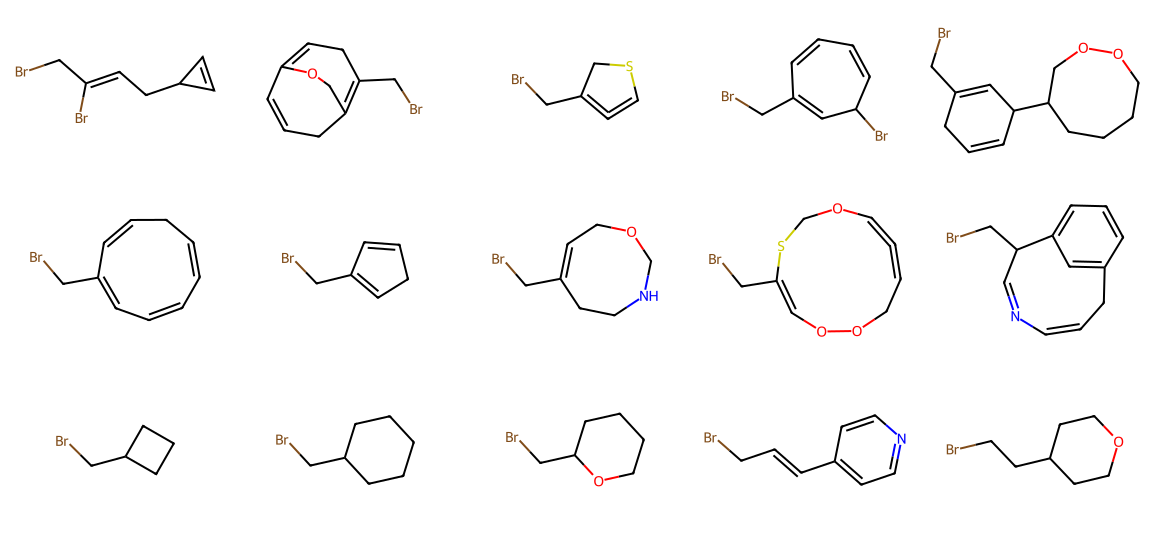
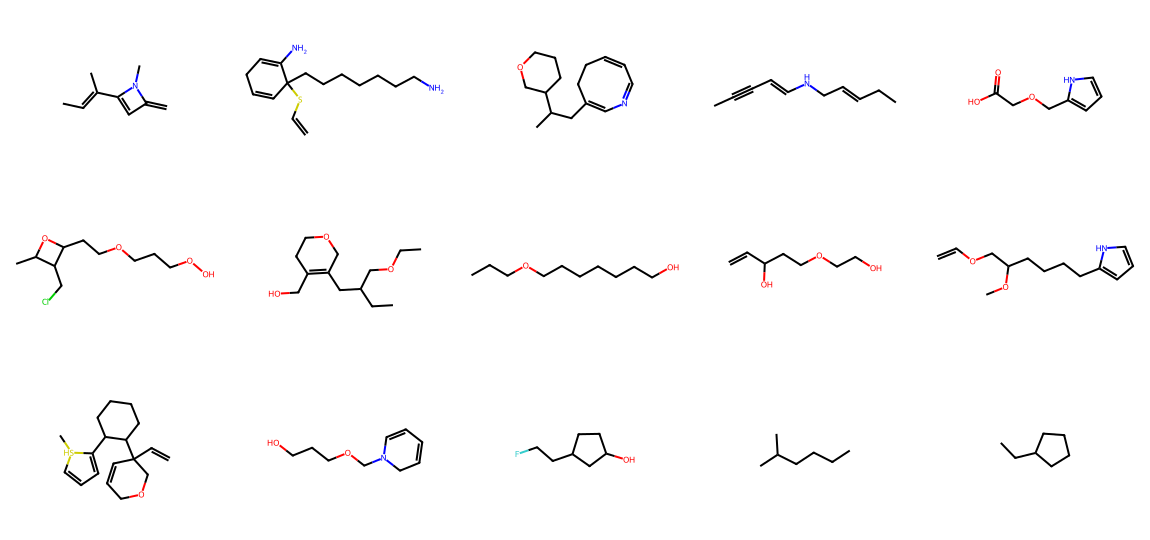
Replace low-signal figures with a goal-directed generation result
The previous figures (training curve, generated-vs-training property
histograms, fingerprint PCA) carried little information on the small synthetic
sample - the distributions overlapped almost entirely. Drop them and keep two
informative figures: the generated-molecule grid, and a new goal-directed
result where fine-tuning the model toward drug-likeness shifts the generated
QED distribution from 0.54 to 0.64 (a clear +0.10), showing generation can be
steered. make_figures.py now trains, fine-tunes on the top-QED subset, and
plots the baseline vs focused QED distributions.

diff --git a/scripts/make_figures.py b/scripts/make_figures.py
@@ -1,16 +1,14 @@
-"""Generate the figures shown in the README.
+"""Generate the README figures (trains on the GPU; all output is real).
 
-Trains a small SELFIES MolGPT on the bundled sample (so every sample is valid),
-generates molecules, and writes four figures to ``assets/``:
+Produces two figures in ``assets/``:
 
-* ``training_curve.png``        - train/validation loss
-* ``property_distributions.png``- generated vs. training QED/logP/MW/SA
-* ``chemical_space.png``        - Morgan-fingerprint PCA of both sets
-* ``generated_molecules.png``   - a grid of generated structures
+* ``generated_molecules.png``   - a grid of sampled structures.
+* ``controlled_generation.png`` - goal-directed generation: after fine-tuning
+  the model toward drug-likeness, the generated QED distribution shifts higher.
 
 Usage::
 
-    python scripts/make_figures.py --epochs 80 --num 1500
+    python scripts/make_figures.py --epochs 60 --focus-epochs 40 --num 1000
 """
 
 from __future__ import annotations
@@ -20,118 +18,103 @@ from pathlib import Path
 
 import matplotlib.pyplot as plt
 import numpy as np
-from rdkit import Chem, DataStructs
-from rdkit.Chem import Draw, rdFingerprintGenerator
-from sklearn.decomposition import PCA
+from rdkit import Chem
+from rdkit.Chem import Draw
+from scipy.stats import gaussian_kde
+from torch.utils.data import DataLoader
 
 from molgen.chem import canonicalize_smiles
-from molgen.data import build_dataloaders, load_sample_smiles
+from molgen.data import SmilesDataset, build_dataloaders, load_sample_smiles, make_collate_fn
 from molgen.molgpt import MolGPT
-from molgen.properties import logp, molecular_weight, qed, sa_score
+from molgen.properties import qed
 from molgen.sampling import sample
 from molgen.selfies_tokenizer import SelfiesTokenizer
 from molgen.trainer import TrainConfig, train_language_model
 from molgen.utils import get_device, set_seed
 
 ASSETS = Path(__file__).resolve().parent.parent / "assets"
-TRAIN_COLOR = "#475569"  # slate
-GEN_COLOR = "#14b8a6"  # teal
+BASE_COLOR = "#475569"  # slate
+FOCUS_COLOR = "#14b8a6"  # teal
 
 
-def _training_curve(history: list[dict]) -> None:
-    epochs = [h["epoch"] for h in history]
-    fig, ax = plt.subplots(figsize=(6.2, 4.0), dpi=140)
-    ax.plot(epochs, [h["train_loss"] for h in history], color=GEN_COLOR, lw=2.4, label="train")
-    ax.plot(
-        epochs,
-        [h["val_loss"] for h in history],
-        color=TRAIN_COLOR,
-        lw=2.4,
-        ls="--",
-        label="validation",
-    )
-    ax.set_xlabel("epoch")
-    ax.set_ylabel("cross-entropy loss")
-    ax.set_title("MolGPT training", fontweight="bold")
-    ax.legend(frameon=False)
-    ax.grid(alpha=0.3)
-    fig.tight_layout()
-    fig.savefig(ASSETS / "training_curve.png")
-    plt.close(fig)
+def _sample_canonical(model, tokenizer, n: int, device) -> list[str]:
+    raw = sample(model, tokenizer, num_samples=n, max_len=80, top_p=0.95, device=device)
+    return [c for s in raw if (c := canonicalize_smiles(s))]
 
 
-def _property_distributions(train: list[str], gen: list[str]) -> None:
-    panels = [
-        ("QED", qed),
-        ("logP", logp),
-        ("Molecular weight", molecular_weight),
-        ("SA score", sa_score),
-    ]
-    fig, axes = plt.subplots(2, 2, figsize=(9.0, 6.5), dpi=140)
-    for ax, (name, fn) in zip(axes.ravel(), panels):
-        t = [v for s in train if (v := fn(s)) is not None]
-        g = [v for s in gen if (v := fn(s)) is not None]
-        ax.hist(t, bins=30, density=True, color=TRAIN_COLOR, alpha=0.55, label="training")
-        ax.hist(g, bins=30, density=True, color=GEN_COLOR, alpha=0.55, label="generated")
-        ax.set_title(name, fontweight="bold")
-        ax.grid(alpha=0.25)
-    axes[0, 0].legend(frameon=False)
-    fig.suptitle("Property distributions: generated vs. training", fontweight="bold", fontsize=13)
-    fig.tight_layout()
-    fig.savefig(ASSETS / "property_distributions.png")
-    plt.close(fig)
-
-
-def _fingerprint_matrix(smiles_list: list[str]) -> np.ndarray:
-    generator = rdFingerprintGenerator.GetMorganGenerator(radius=2, fpSize=1024)
-    rows = []
-    for smiles in smiles_list:
-        mol = Chem.MolFromSmiles(smiles)
-        if mol is None:
-            continue
-        arr = np.zeros((1024,), dtype=np.int8)
-        DataStructs.ConvertToNumpyArray(generator.GetFingerprint(mol), arr)
-        rows.append(arr)
-    return np.array(rows, dtype=np.float32)
-
-
-def _chemical_space(train: list[str], gen: list[str]) -> None:
-    xt, xg = _fingerprint_matrix(train), _fingerprint_matrix(gen)
-    pca = PCA(n_components=2).fit(np.vstack([xt, xg]))
-    pt, pg = pca.transform(xt), pca.transform(xg)
-    fig, ax = plt.subplots(figsize=(6.5, 5.0), dpi=140)
-    ax.scatter(
-        pt[:, 0], pt[:, 1], s=18, color=TRAIN_COLOR, alpha=0.5, edgecolors="none", label="training"
-    )
-    ax.scatter(
-        pg[:, 0], pg[:, 1], s=18, color=GEN_COLOR, alpha=0.5, edgecolors="none", label="generated"
-    )
-    ax.set_xlabel("PC 1")
-    ax.set_ylabel("PC 2")
-    ax.set_title("Chemical space (Morgan-fingerprint PCA)", fontweight="bold")
-    ax.legend(frameon=False)
-    ax.grid(alpha=0.25)
-    fig.tight_layout()
-    fig.savefig(ASSETS / "chemical_space.png")
-    plt.close(fig)
-
-
-def _molecule_grid(gen: list[str], n: int = 15) -> None:
+def _molecule_grid(smiles: list[str], n: int = 15) -> None:
     mols = []
-    for smiles in gen:
-        mol = Chem.MolFromSmiles(smiles)
+    for s in smiles:
+        mol = Chem.MolFromSmiles(s)
         if mol is not None and 6 <= mol.GetNumHeavyAtoms() <= 24:
             mols.append(mol)
         if len(mols) >= n:
             break
-    image = Draw.MolsToGridImage(mols, molsPerRow=5, subImgSize=(230, 180))
-    image.save(ASSETS / "generated_molecules.png")
+    Draw.MolsToGridImage(mols, molsPerRow=5, subImgSize=(230, 180)).save(
+        ASSETS / "generated_molecules.png"
+    )
+
+
+def _controlled_generation(train_qed, base_qed, focus_qed) -> None:
+    xs = np.linspace(0.0, 1.0, 240)
+    fig, ax = plt.subplots(figsize=(7.6, 4.7), dpi=150)
+
+    ax.plot(
+        xs,
+        gaussian_kde(train_qed)(xs),
+        color="#94a3b8",
+        lw=1.6,
+        ls=":",
+        label=f"training set  (mean {np.mean(train_qed):.2f})",
+    )
+    kb = gaussian_kde(base_qed)(xs)
+    ax.fill_between(xs, kb, color=BASE_COLOR, alpha=0.30)
+    ax.plot(
+        xs,
+        kb,
+        color=BASE_COLOR,
+        lw=2.4,
+        label=f"baseline generation  (mean {np.mean(base_qed):.2f})",
+    )
+    kf = gaussian_kde(focus_qed)(xs)
+    ax.fill_between(xs, kf, color=FOCUS_COLOR, alpha=0.35)
+    ax.plot(
+        xs,
+        kf,
+        color=FOCUS_COLOR,
+        lw=2.4,
+        label=f"QED-focused generation  (mean {np.mean(focus_qed):.2f})",
+    )
+
+    mb, mf = float(np.mean(base_qed)), float(np.mean(focus_qed))
+    y = ax.get_ylim()[1] * 0.9
+    ax.annotate(
+        "", xy=(mf, y), xytext=(mb, y), arrowprops=dict(arrowstyle="-|>", color="#0f172a", lw=1.8)
+    )
+    ax.text(
+        (mb + mf) / 2,
+        y * 1.03,
+        f"+{mf - mb:.2f} QED",
+        ha="center",
+        fontweight="bold",
+        color="#0f172a",
+    )
+
+    ax.set_xlim(0, 1)
+    ax.set_xlabel("QED  (drug-likeness)")
+    ax.set_ylabel("density")
+    ax.set_title("Goal-directed generation: steering toward higher QED", fontweight="bold")
+    ax.legend(frameon=False, loc="upper left")
+    fig.tight_layout()
+    fig.savefig(ASSETS / "controlled_generation.png")
+    plt.close(fig)
 
 
 def main() -> None:
     parser = argparse.ArgumentParser(description=__doc__)
-    parser.add_argument("--epochs", type=int, default=80)
-    parser.add_argument("--num", type=int, default=1500)
+    parser.add_argument("--epochs", type=int, default=60)
+    parser.add_argument("--focus-epochs", type=int, default=40)
+    parser.add_argument("--num", type=int, default=1000)
     parser.add_argument("--seed", type=int, default=0)
     args = parser.parse_args()
 
@@ -162,21 +145,44 @@ def main() -> None:
         num_layers=3,
         pad_idx=tokenizer.pad_id,
     )
-    print(f"Training on {device} for {args.epochs} epochs...")
-    history = train_language_model(
+
+    print(f"Training base model on {device} for {args.epochs} epochs...")
+    train_language_model(
         model, train_loader, val_loader, TrainConfig(epochs=args.epochs), device, tokenizer.pad_id
     )
+    baseline = _sample_canonical(model, tokenizer, args.num, device)
+    base_qed = [q for s in baseline if (q := qed(s)) is not None]
+    _molecule_grid(baseline)
 
-    print(f"Sampling {args.num} molecules...")
-    raw = sample(model, tokenizer, num_samples=args.num, max_len=80, top_p=0.95, device=device)
-    generated = sorted({c for s in raw if (c := canonicalize_smiles(s))})
-    print(f"{len(generated)} unique valid molecules; writing figures to {ASSETS}")
+    # Goal-directed fine-tuning: continue training on the most drug-like molecules.
+    scored = sorted(((qed(s), s) for s in data if qed(s) is not None), key=lambda t: -t[0])
+    high_qed = [s for _, s in scored[: int(0.4 * len(scored))]]
+    loader = DataLoader(
+        SmilesDataset(high_qed, tokenizer, augment=True),
+        batch_size=32,
+        shuffle=True,
+        collate_fn=make_collate_fn(tokenizer.pad_id),
+    )
+    print(f"Fine-tuning toward high QED for {args.focus_epochs} epochs...")
+    train_language_model(
+        model,
+        loader,
+        None,
+        TrainConfig(epochs=args.focus_epochs, lr=3e-4),
+        device,
+        tokenizer.pad_id,
+    )
+    focus_qed = [
+        q
+        for s in _sample_canonical(model, tokenizer, args.num, device)
+        if (q := qed(s)) is not None
+    ]
 
-    _training_curve(history)
-    _property_distributions(data, generated)
-    _chemical_space(data, generated)
-    _molecule_grid(generated)
-    print("done")
+    _controlled_generation([q for q, _ in scored], base_qed, focus_qed)
+    print(
+        f"QED mean: baseline {np.mean(base_qed):.3f} -> focused {np.mean(focus_qed):.3f}; "
+        f"figures written to {ASSETS}"
+    )
 
 
 if __name__ == "__main__":

diff --git a/README.md b/README.md
@@ -85,30 +85,19 @@ stronger models. (SELFIES mode guarantees 100% validity.)
 
 ## Visualizations
 
-Every figure below comes from **real model output** and is reproducible with
-`python scripts/make_figures.py` (a small SELFIES MolGPT trained on the bundled
-sample, then sampled).
+Both figures come from **real model output** and are reproducible with
+`python scripts/make_figures.py` (trains a SELFIES MolGPT on the bundled sample).
 
 **Generated molecules** — structures sampled directly from the trained model:
 
 ![Molecules generated by the model](./assets/generated_molecules.png)
 
-**Distribution learning** — the generated set closely reproduces the training
-data's QED, logP and molecular-weight distributions (SA score skews slightly
-higher), the key signal that a generative model has captured the data:
+**Goal-directed generation** — fine-tuning the model on its most drug-like
+molecules shifts the generated QED distribution clearly higher (+0.10 mean),
+while the baseline tracks the training data. Generation can be *steered*, not
+just imitated:
 
-![Generated vs. training property distributions](./assets/property_distributions.png)
-
-**Chemical-space coverage** and **training dynamics** — a Morgan-fingerprint PCA
-shows the samples covering and extending beyond the training distribution, with
-smooth train/validation convergence:
-
-<table>
-<tr>
-<td><img src="./assets/chemical_space.png" alt="Morgan-fingerprint PCA of generated vs. training molecules" /></td>
-<td><img src="./assets/training_curve.png" alt="MolGPT training and validation loss" /></td>
-</tr>
-</table>
+![QED distribution shifts higher after focusing the model on drug-likeness](./assets/controlled_generation.png)
 
 ## Models
 